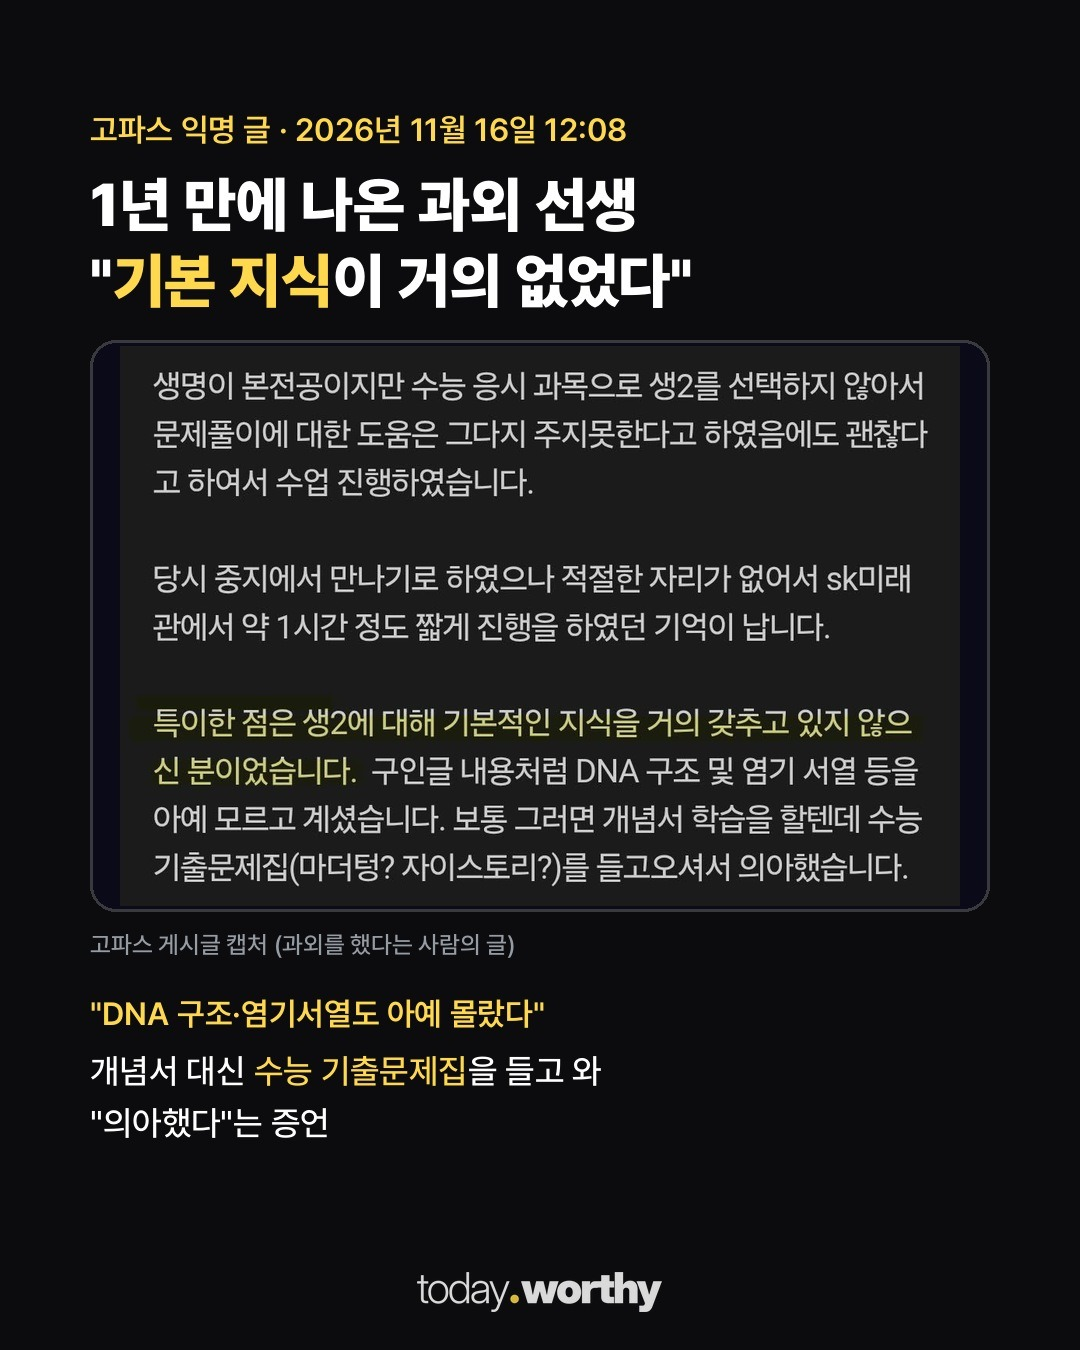
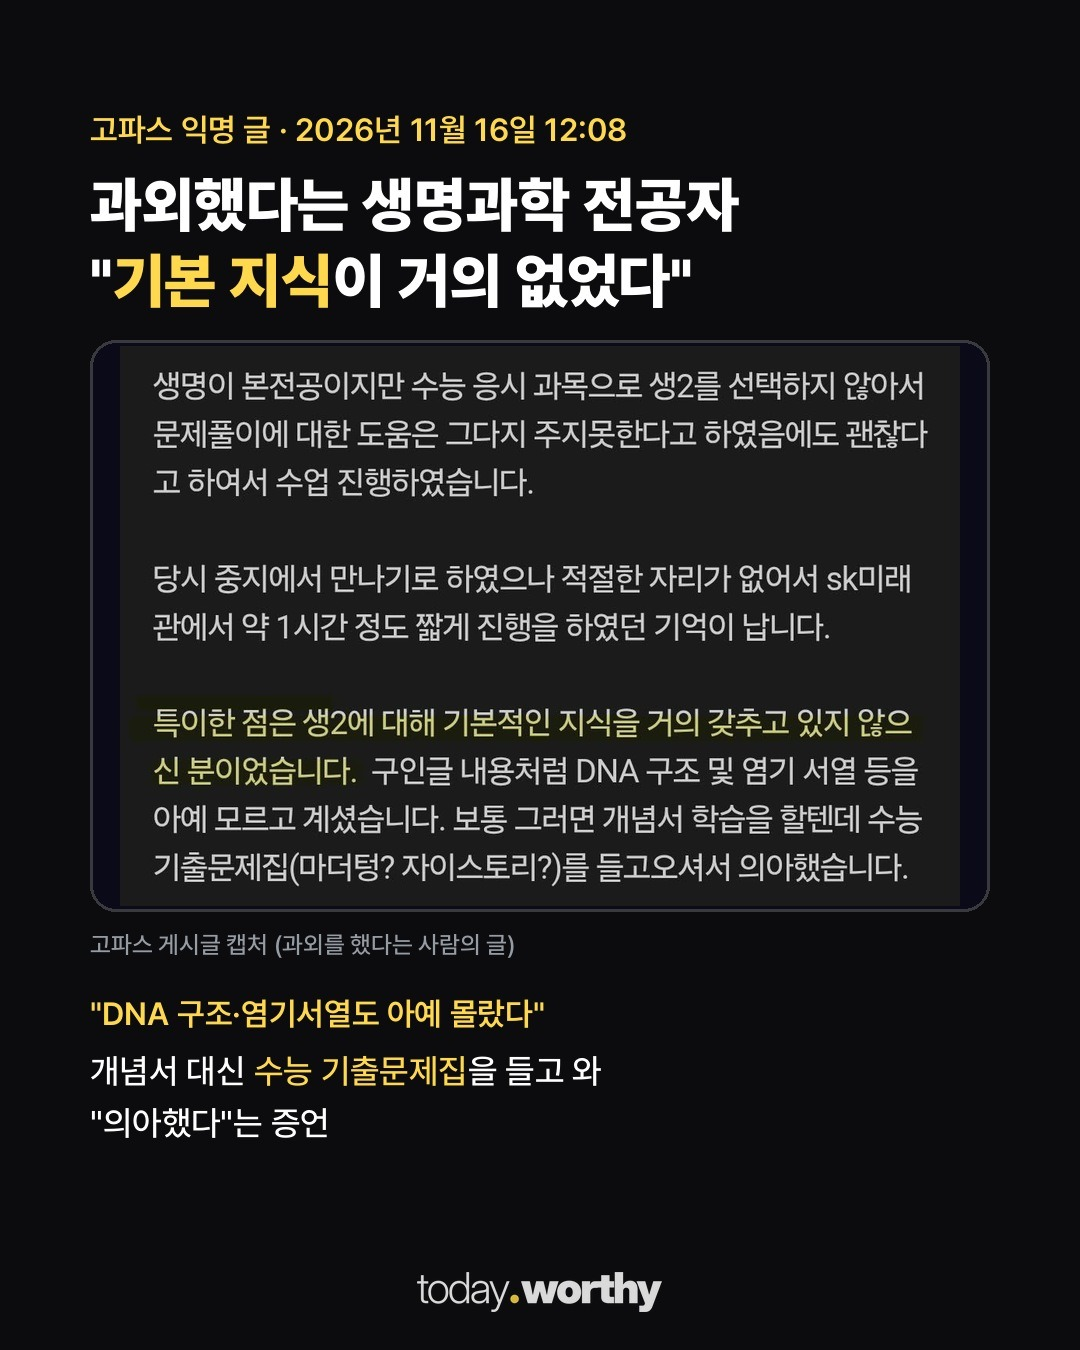
send(승인 대기): 20261116-leettutor 4장 제목 수정 재전송

Changed region(s): [[0.0917, 0.1244, 0.7028, 0.1867]]

diff --git a/media/20261116-leettutor/build_cards.py b/media/20261116-leettutor/build_cards.py
@@ -33,7 +33,7 @@ specs = [
   "caption": "오픈채팅 대화 캡처 (11월 16일 공개)", "label": "\"그림설명을 텍스트로 어떻게 풀어서 설명할지\"",
   "lines": ["수능 사흘 전에 왜 필요했을까", "커뮤니티 'AI에 넣으려던 것' 추측 · 확인 안 됨"]},
  {"out": str(O / "c04.jpg"), "sub": "고파스 익명 글 · 2026년 11월 16일 12:08",
-  "title": "1년 만에 나온 과외 선생\n\"'기본 지식'이 거의 없었다\"", "cap": str(O / "cap_tes.png"), "cap_max_h": 560,
+  "title": "과외했다는 생명과학 전공자\n\"'기본 지식'이 거의 없었다\"", "cap": str(O / "cap_tes.png"), "cap_max_h": 560,
   "caption": "고파스 게시글 캡처 (과외를 했다는 사람의 글)", "label": "\"DNA 구조·염기서열도 아예 몰랐다\"",
   "lines": ["개념서 대신 '수능 기출문제집'을 들고 와", "\"의아했다\"는 증언"]},
  {"out": str(O / "c05.jpg"), "sub": "고파스 구인글 댓글 · 2025년 11월 10일 14:55",
